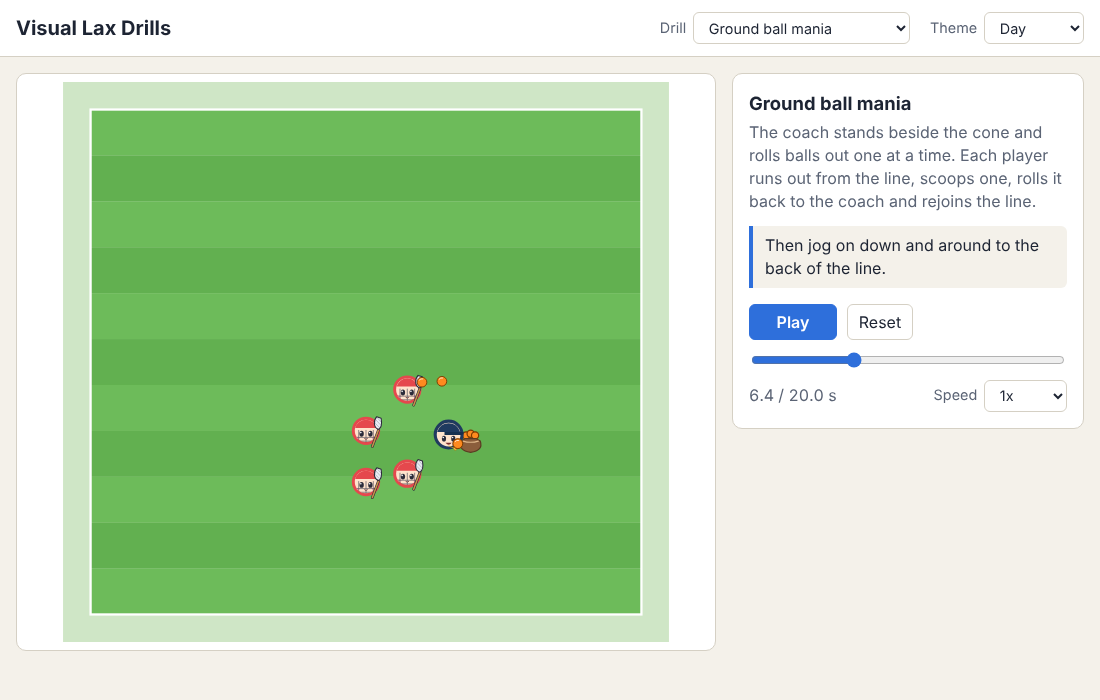
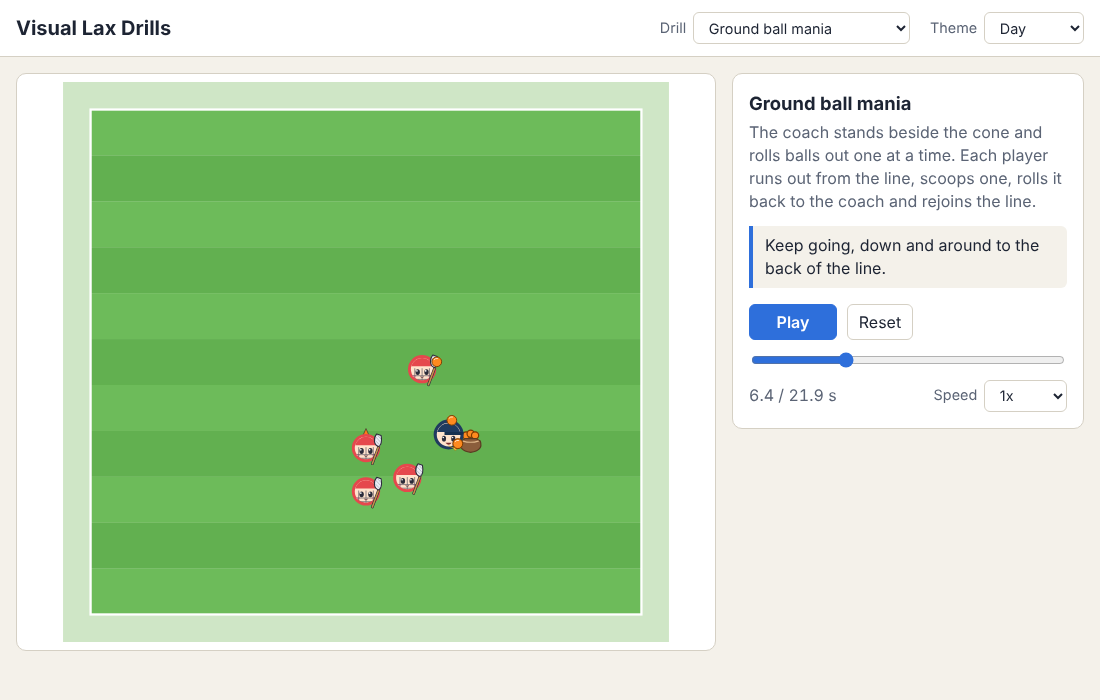
fix: players never stop in Ground ball mania
Removed the 0.3 second pause at the scoop (the caption already said to keep
moving) and kept the pace up through the roll-in and on to the line. The
run out is now a believable pace (about 6 yards a second) and the final
step into the line is slower, so nobody exceeds about 6.5 yards a second.
Players start 2.6 seconds apart and the next ball starts rolling just as
the player scoops. Added a test that nobody stops or exceeds 8 yards a
second once they have left the line. Screenshots remade.

AIA PAI SeCeNc Hin R Claude Code Web Sonnet 5.5 Medium v1.0

Vibe-Coder: Vibe-Coder 1.z3r0 <243014891+vibecoder-1z3r0@users.noreply.github.com>

diff --git a/src/js/drills.js b/src/js/drills.js
@@ -119,31 +119,31 @@ export const DRILLS = [
     goal: false,
     midfieldLabel: false,
     summary: "The coach stands beside the cone and rolls balls out one at a time. Each player runs out from the line, scoops one, rolls it back to the coach and rejoins the line.",
-    duration: 20.0,
+    duration: 21.9,
     actors: [
       { id: "coach", kind: "coach", team: "none", keys: [k(0, 39, 35.4)] },
       { id: "bag", kind: "ballbag", team: "none", keys: [k(0, 41.4, 36.2)] },
       { id: "cone", kind: "cone", team: "none", color: "orange", keys: [k(0, 30, 35.4)] },
-      { id: "p1", kind: "player", team: "a", keys: [k(0, 30, 38), k(1.0, 30, 38), k(1.9, 30, 33.5), k(2.9, 36.5, 26.7), k(3.2, 36.5, 26.7), k(4.0, 34.5, 30.7), k(4.5, 34.5, 34.4), k(7.1, 34.5, 41.6), k(7.6, 30, 41.6), k(8.6, 30, 41.6), k(9.3, 30, 38), k(10.6, 30, 38), k(11.5, 30, 33.5), k(12.5, 36.5, 26.7), k(12.8, 36.5, 26.7), k(13.6, 34.5, 30.7), k(14.1, 34.5, 34.4), k(16.7, 34.5, 45.2), k(17.2, 30, 45.2)] },
-      { id: "p2", kind: "player", team: "a", keys: [k(0, 30, 41.6), k(1.4, 30, 41.6), k(2.1, 30, 38), k(3.4, 30, 38), k(4.3, 30, 33.5), k(5.3, 37.4, 26.5), k(5.6, 37.4, 26.5), k(6.4, 34.5, 30.5), k(6.9, 34.5, 34.4), k(9.5, 34.5, 41.6), k(10.0, 30, 41.6), k(11.0, 30, 41.6), k(11.7, 30, 38), k(13.0, 30, 38), k(13.9, 30, 33.5), k(14.9, 37.4, 26.5), k(15.2, 37.4, 26.5), k(16.0, 34.5, 30.5), k(16.5, 34.5, 34.4), k(19.1, 34.5, 48.8), k(19.6, 30, 48.8)] },
-      { id: "p3", kind: "player", team: "a", keys: [k(0, 30, 45.2), k(1.4, 30, 45.2), k(2.1, 30, 41.6), k(3.8, 30, 41.6), k(4.5, 30, 38), k(5.8, 30, 38), k(6.7, 30, 33.5), k(7.7, 35.8, 27.0), k(8.0, 35.8, 27.0), k(8.8, 34.5, 31.0), k(9.3, 34.5, 34.4), k(11.9, 34.5, 41.6), k(12.4, 30, 41.6), k(13.4, 30, 41.6), k(14.1, 30, 38)] },
-      { id: "p4", kind: "player", team: "a", keys: [k(0, 30, 48.8), k(1.4, 30, 48.8), k(2.1, 30, 45.2), k(3.8, 30, 45.2), k(4.5, 30, 41.6), k(6.2, 30, 41.6), k(6.9, 30, 38), k(8.2, 30, 38), k(9.1, 30, 33.5), k(10.1, 37.0, 26.6), k(10.4, 37.0, 26.6), k(11.2, 34.5, 30.6), k(11.7, 34.5, 34.4), k(14.3, 34.5, 41.6), k(14.8, 30, 41.6)] },
-      { id: "ball", kind: "ball", team: "none", keys: [k(0, 40, 36.4), k(0.8, 40, 36.4), k(2.0, 38.1, 25.9), k(3.2, 38.1, 25.9), k(4.0, 36.1, 29.9), k(4.5, 36.1, 33.6), k(5.0, 40, 36.4), k(10.4, 40, 36.4), k(11.6, 38.1, 25.9), k(12.8, 38.1, 25.9), k(13.6, 36.1, 29.9), k(14.1, 36.1, 33.6), k(14.6, 40, 36.4)] },
-      { id: "ball2", kind: "ball", team: "none", keys: [k(0, 40, 36.4), k(3.2, 40, 36.4), k(4.4, 39.0, 25.7), k(5.6, 39.0, 25.7), k(6.4, 36.1, 29.7), k(6.9, 36.1, 33.6), k(7.4, 40, 36.4), k(12.8, 40, 36.4), k(14.0, 39.0, 25.7), k(15.2, 39.0, 25.7), k(16.0, 36.1, 29.7), k(16.5, 36.1, 33.6), k(17.0, 40, 36.4)] },
-      { id: "ball3", kind: "ball", team: "none", keys: [k(0, 40, 36.4), k(5.6, 40, 36.4), k(6.8, 37.4, 26.2), k(8.0, 37.4, 26.2), k(8.8, 36.1, 30.2), k(9.3, 36.1, 33.6), k(9.8, 40, 36.4)] },
-      { id: "ball4", kind: "ball", team: "none", keys: [k(0, 40, 36.4), k(8.0, 40, 36.4), k(9.2, 38.6, 25.8), k(10.4, 38.6, 25.8), k(11.2, 36.1, 29.8), k(11.7, 36.1, 33.6), k(12.2, 40, 36.4)] },
+      { id: "p1", kind: "player", team: "a", keys: [k(0, 30, 38), k(1.0, 30, 38), k(1.8, 30, 33.5), k(3.4, 36.5, 26.7), k(4.3, 34.5, 30.7), k(4.9, 34.5, 34.4), k(5.8, 34.5, 39.4), k(7.6, 34.5, 41.6), k(8.5, 30, 41.6), k(9.2, 30, 41.6), k(9.9, 30, 38), k(11.4, 30, 38), k(12.2, 30, 33.5), k(13.8, 36.5, 26.7), k(14.7, 34.5, 30.7), k(15.3, 34.5, 34.4), k(16.2, 34.5, 39.4), k(18.0, 34.5, 45.2), k(18.9, 30, 45.2)] },
+      { id: "p2", kind: "player", team: "a", keys: [k(0, 30, 41.6), k(1.4, 30, 41.6), k(2.1, 30, 38), k(3.6, 30, 38), k(4.4, 30, 33.5), k(6.0, 37.4, 26.5), k(6.9, 34.5, 30.5), k(7.5, 34.5, 34.4), k(8.4, 34.5, 39.4), k(10.2, 34.5, 41.6), k(11.1, 30, 41.6), k(11.8, 30, 41.6), k(12.5, 30, 38), k(14.0, 30, 38), k(14.8, 30, 33.5), k(16.4, 37.4, 26.5), k(17.3, 34.5, 30.5), k(17.9, 34.5, 34.4), k(18.8, 34.5, 39.4), k(20.6, 34.5, 48.8), k(21.5, 30, 48.8)] },
+      { id: "p3", kind: "player", team: "a", keys: [k(0, 30, 45.2), k(1.4, 30, 45.2), k(2.1, 30, 41.6), k(4.0, 30, 41.6), k(4.7, 30, 38), k(6.2, 30, 38), k(7.0, 30, 33.5), k(8.6, 35.8, 27.0), k(9.5, 34.5, 31.0), k(10.1, 34.5, 34.4), k(11.0, 34.5, 39.4), k(12.8, 34.5, 41.6), k(13.7, 30, 41.6), k(14.4, 30, 41.6), k(15.1, 30, 38)] },
+      { id: "p4", kind: "player", team: "a", keys: [k(0, 30, 48.8), k(1.4, 30, 48.8), k(2.1, 30, 45.2), k(4.0, 30, 45.2), k(4.7, 30, 41.6), k(6.6, 30, 41.6), k(7.3, 30, 38), k(8.8, 30, 38), k(9.6, 30, 33.5), k(11.2, 37.0, 26.6), k(12.1, 34.5, 30.6), k(12.7, 34.5, 34.4), k(13.6, 34.5, 39.4), k(15.4, 34.5, 41.6), k(16.3, 30, 41.6)] },
+      { id: "ball", kind: "ball", team: "none", keys: [k(0, 40, 36.4), k(0.9, 40, 36.4), k(2.1, 38.1, 25.9), k(3.4, 38.1, 25.9), k(4.3, 36.1, 29.9), k(4.9, 36.1, 33.6), k(5.4, 40, 36.4), k(11.3, 40, 36.4), k(12.5, 38.1, 25.9), k(13.8, 38.1, 25.9), k(14.7, 36.1, 29.9), k(15.3, 36.1, 33.6), k(15.8, 40, 36.4)] },
+      { id: "ball2", kind: "ball", team: "none", keys: [k(0, 40, 36.4), k(3.5, 40, 36.4), k(4.7, 39.0, 25.7), k(6.0, 39.0, 25.7), k(6.9, 36.1, 29.7), k(7.5, 36.1, 33.6), k(8.0, 40, 36.4), k(13.9, 40, 36.4), k(15.1, 39.0, 25.7), k(16.4, 39.0, 25.7), k(17.3, 36.1, 29.7), k(17.9, 36.1, 33.6), k(18.4, 40, 36.4)] },
+      { id: "ball3", kind: "ball", team: "none", keys: [k(0, 40, 36.4), k(6.1, 40, 36.4), k(7.3, 37.4, 26.2), k(8.6, 37.4, 26.2), k(9.5, 36.1, 30.2), k(10.1, 36.1, 33.6), k(10.6, 40, 36.4)] },
+      { id: "ball4", kind: "ball", team: "none", keys: [k(0, 40, 36.4), k(8.7, 40, 36.4), k(9.9, 38.6, 25.8), k(11.2, 38.6, 25.8), k(12.1, 36.1, 29.8), k(12.7, 36.1, 33.6), k(13.2, 40, 36.4)] },
     ],
     captions: [
       { t: 0, text: "Four players line up behind the cone. The coach stands off to the side with the balls." },
       { t: 0.6, text: "Coach rolls a ball up the field, about 9 yards out." },
-      { t: 1.4, text: "The first player runs through the cone and attacks the ball." },
-      { t: 2.9, text: "Scoop it: get low, stick down, and keep your feet moving through it." },
-      { t: 3.2, text: "As the player scoops, the coach is already rolling the next ball out." },
-      { t: 3.9, text: "Cradle the ball and run it back down between the line and the coach." },
-      { t: 4.5, text: "Roll it in when you are nearly level with the coach, without stopping." },
-      { t: 5.6, text: "Then jog on down and around to the back of the line." },
-      { t: 12, text: "Around again, everyone circling the same way. Field as many ground balls as you can." },
-      { t: 18, text: "Six ground balls in about 20 seconds. Beat that next round." },
+      { t: 1.6, text: "The first player runs through the cone and attacks the ball." },
+      { t: 3.4, text: "Scoop it on the move: get low, stick down, and don't stop." },
+      { t: 3.6, text: "As the player scoops, the coach is already rolling the next ball out." },
+      { t: 4.1, text: "Cradle the ball and run it back down between the line and the coach." },
+      { t: 4.9, text: "Roll it in when you are nearly level with the coach, still running." },
+      { t: 6.2, text: "Keep going, down and around to the back of the line." },
+      { t: 12.5, text: "Around again, everyone circling the same way. Field as many ground balls as you can." },
+      { t: 19.5, text: "Six ground balls in about 21 seconds. Beat that next round." },
     ],
   },
 ];

diff --git a/tests/test_engine.py b/tests/test_engine.py
@@ -185,3 +185,31 @@ def test_ground_ball_mania_rolls_head_toward_the_goal(page):
         assert off < 30 or off > 330, (name, off)
     assert max(lengths) - min(lengths) < 0.5, lengths
     assert all(8.5 <= n <= 10 for n in lengths), lengths
+
+
+def test_ground_ball_mania_players_keep_moving_and_stay_believable(page):
+    """Once a player leaves the line they never stop (not at the scoop, not at the roll-in) until
+    they are back in it, and nobody runs faster than about 8 yards a second."""
+    result = page.evaluate(
+        """() => {
+      const drill = LAX.DRILLS.find((d) => d.id === 'ground-ball-mania');
+      const kids = drill.actors.filter((a) => a.id.startsWith('p'));
+      const slots = [38, 41.6, 45.2, 48.8].map((y) => ({ x: 30, y }));
+      const inLine = (p) => slots.some((s) => Math.hypot(p.x - s.x, p.y - s.y) < 0.3);
+      const dt = 0.05;
+      let slowest = Infinity, fastest = 0, slowAt = null;
+      for (const kid of kids) {
+        for (let t = 0; t + dt <= drill.duration; t += dt) {
+          const a = LAX.trackAt(kid.keys, t), b = LAX.trackAt(kid.keys, t + dt);
+          if (inLine(a) && inLine(b)) continue;       // waiting or shuffling up in the line
+          if (Math.hypot(a.x - 30, a.y - 38) < 0.3) continue;   // about to step out
+          const v = Math.hypot(b.x - a.x, b.y - a.y) / dt;
+          fastest = Math.max(fastest, v);
+          if (v < slowest) { slowest = v; slowAt = [kid.id, +t.toFixed(2)]; }
+        }
+      }
+      return { slowest, fastest, slowAt };
+    }"""
+    )
+    assert result["fastest"] <= 8, result
+    assert result["slowest"] > 0.5, result
